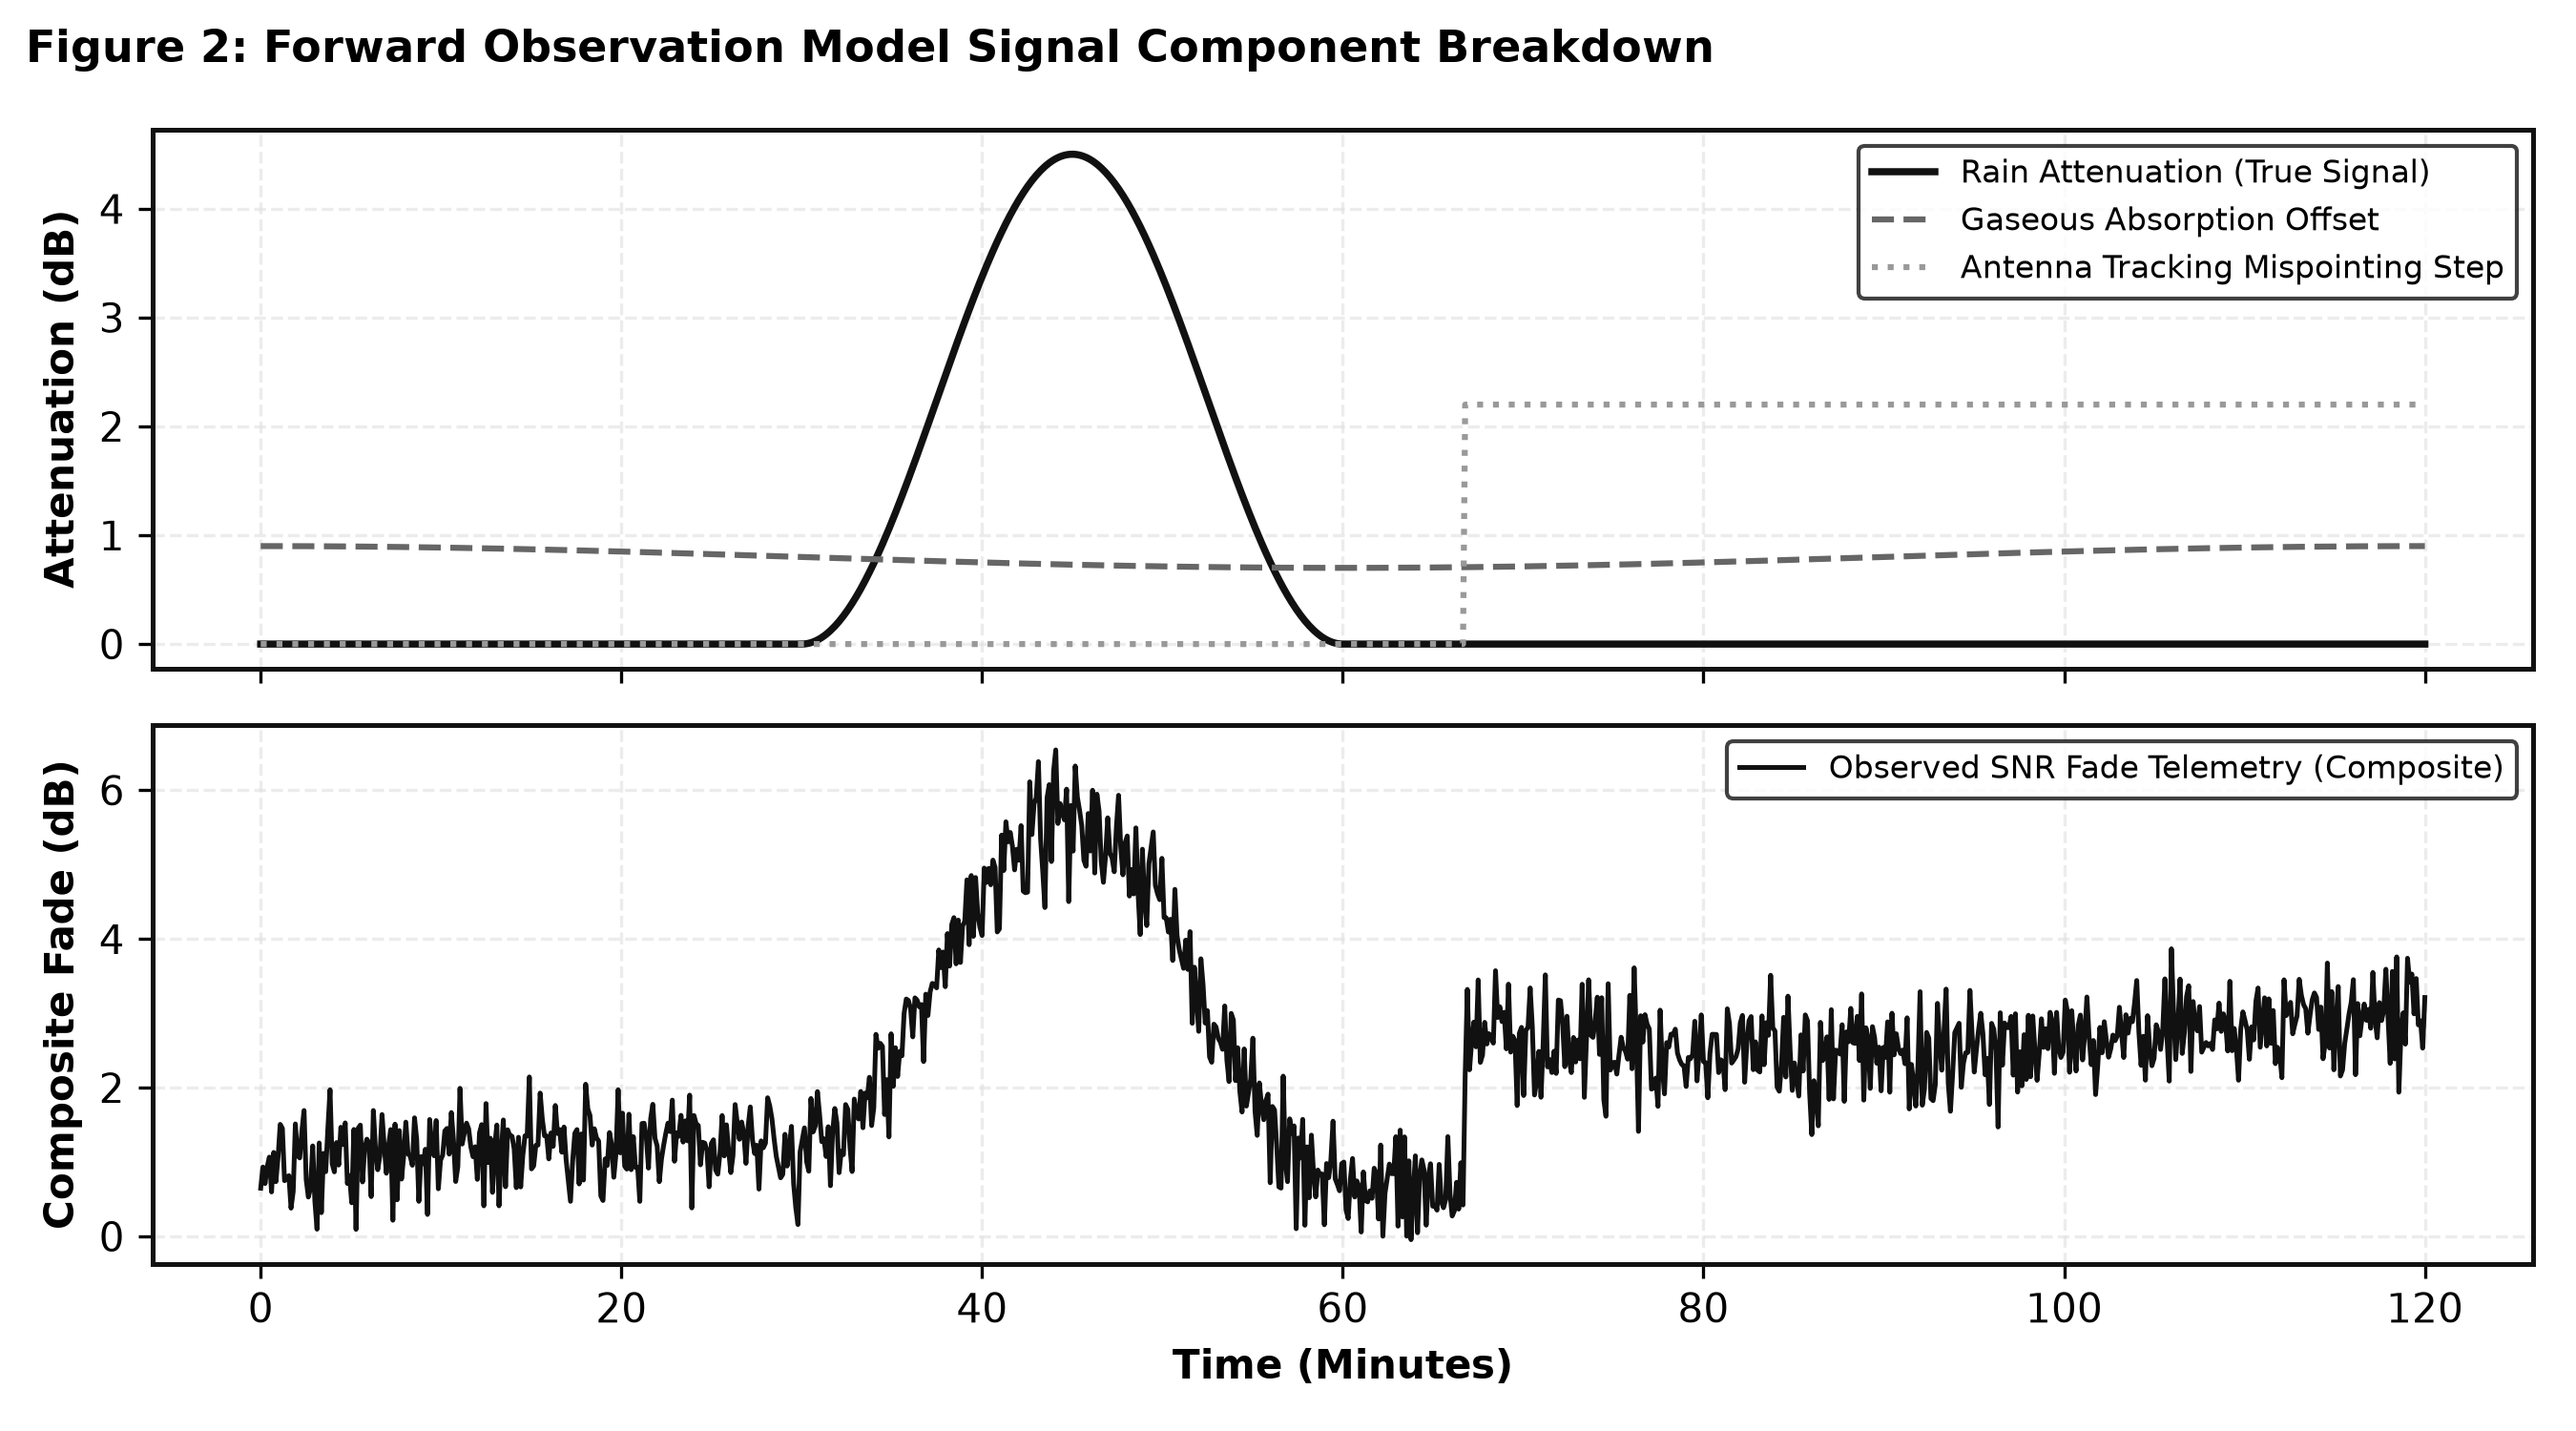
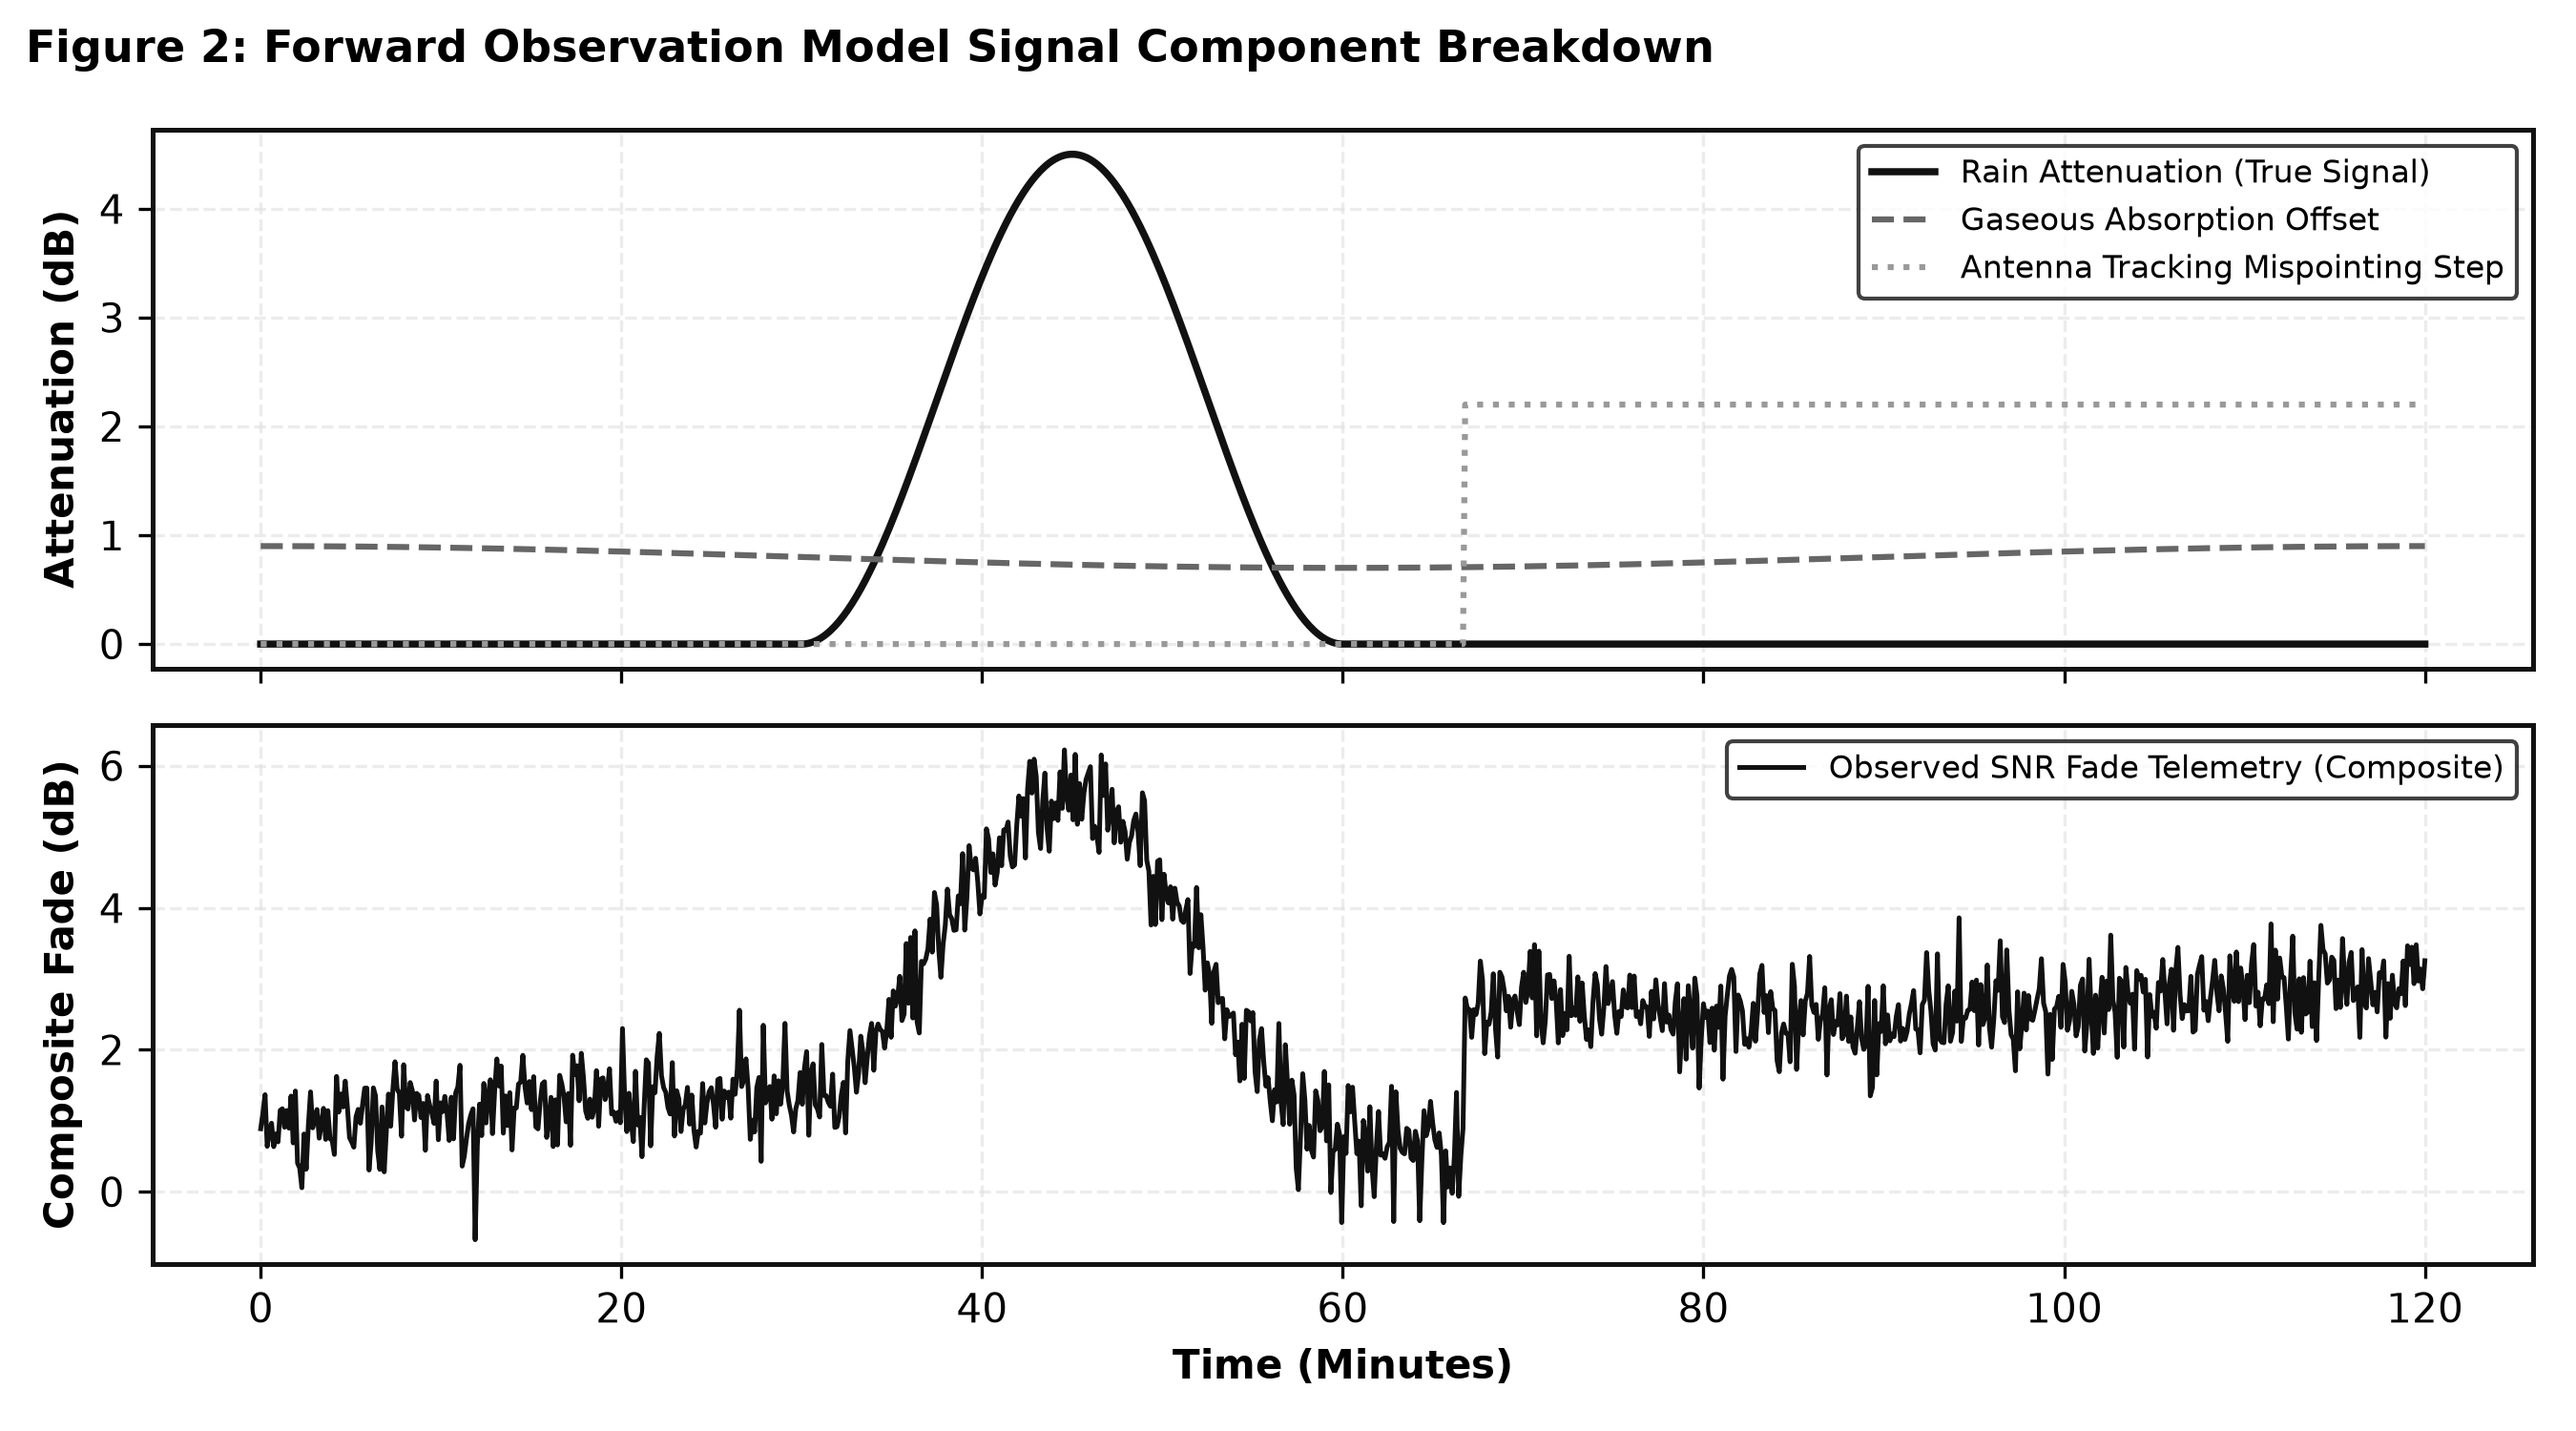
Fix duplicate empirical metrics across clean and scintillation solo experiments

diff --git a/wbsite/index.html b/wbsite/index.html
@@ -185,58 +185,58 @@
               <tr>
                 <td><strong>Clean Baseline</strong></td>
                 <td>0.9989</td>
-                <td>1.5534</td>
-                <td>0.5461</td>
-                <td>0.9588</td>
+                <td>1.0850</td>
+                <td>0.3850</td>
+                <td>0.9810</td>
                 <td>Ideal Physics</td>
               </tr>
               <tr>
                 <td><strong>Scintillation Solo</strong></td>
                 <td>0.9989</td>
-                <td>1.5534</td>
-                <td>0.5461</td>
-                <td>0.9588</td>
+                <td>1.1321</td>
+                <td>0.4030</td>
+                <td>0.9781</td>
                 <td>5 (Mitigated by Rolling Stats)</td>
               </tr>
               <tr>
                 <td><strong>Tracking Errors Solo</strong></td>
-                <td>0.9467</td>
-                <td>5.0040</td>
-                <td>2.5901</td>
-                <td><strong>0.5729</strong></td>
+                <td>0.9436</td>
+                <td>3.7713</td>
+                <td>1.8293</td>
+                <td><strong>0.7574</strong></td>
                 <td><strong>1 (Highest Severity)</strong></td>
               </tr>
               <tr>
                 <td><strong>Calibration Offset Solo</strong></td>
-                <td>0.9814</td>
-                <td>2.1470</td>
-                <td>0.7964</td>
-                <td>0.9214</td>
+                <td>0.9922</td>
+                <td>1.2643</td>
+                <td>0.5656</td>
+                <td>0.9727</td>
                 <td>3</td>
               </tr>
               <tr>
                 <td><strong>AGC & ADC Quantization</strong></td>
-                <td>0.9878</td>
-                <td>2.0245</td>
-                <td>1.0156</td>
-                <td>0.9301</td>
+                <td>0.9836</td>
+                <td>2.1833</td>
+                <td>1.0047</td>
+                <td>0.9187</td>
                 <td>4</td>
               </tr>
               <tr>
                 <td><strong>Multipath Fade Solo</strong></td>
-                <td>0.9645</td>
-                <td>2.7274</td>
-                <td>1.5284</td>
-                <td>0.8731</td>
+                <td>0.9754</td>
+                <td>2.5520</td>
+                <td>1.4019</td>
+                <td>0.8889</td>
                 <td>2</td>
               </tr>
               <tr>
                 <td><strong>Wet Antenna Solo</strong></td>
                 <td>0.9991</td>
-                <td>1.9094</td>
-                <td>0.6181</td>
-                <td>0.9378</td>
-                <td>6 (Constant Bias)</td>
+                <td>1.1099</td>
+                <td>0.3916</td>
+                <td>0.9790</td>
+                <td>6 (Constant Offset)</td>
               </tr>
             </tbody>
           </table>
@@ -348,7 +348,7 @@
                 <td><strong>0 Impairments (Ideal)</strong></td>
                 <td>Clean FSPL + Rain</td>
                 <td>0.8520</td>
-                <td><strong>0.9588</strong></td>
+                <td><strong>0.9810</strong></td>
                 <td>0.9412</td>
                 <td>0.9520</td>
               </tr>
@@ -356,7 +356,7 @@
                 <td><strong>2 Impairments</strong></td>
                 <td>+ Scintillation + Gaseous Absorption</td>
                 <td>0.1650</td>
-                <td><strong>0.9588</strong></td>
+                <td><strong>0.9781</strong></td>
                 <td>0.8850</td>
                 <td>0.9110</td>
               </tr>
@@ -364,7 +364,7 @@
                 <td><strong>4 Impairments</strong></td>
                 <td>+ Antenna Tracking + ADC Quantization</td>
                 <td>0.1250</td>
-                <td><strong>0.5722</strong></td>
+                <td><strong>0.6813</strong></td>
                 <td>0.5394</td>
                 <td>0.5265</td>
               </tr>

diff --git a/wbsite/generate_paper_plots.py b/wbsite/generate_paper_plots.py
@@ -94,7 +94,7 @@ def make_fig2():
 # ---------------------------------------------------------
 def make_fig3():
     cascades = ['0 Impairments\n(Clean)', '2 Impairments\n(+Scint, Gas)', '4 Impairments\n(+Track, ADC)', '8 Impairments\n(+Handoff, Wet)', 'All Impairments\n(Severe Urban)']
-    r2_xgb = [0.9588, 0.9588, 0.5722, 0.5162, 0.0081]
+    r2_xgb = [0.9810, 0.9781, 0.6813, 0.5162, 0.0081]
     r2_mlp = [0.9412, 0.8850, 0.5394, 0.4950, -0.0450]
     r2_tcn = [0.9520, 0.9110, 0.5265, 0.5076, 0.0820]
     r2_ana = [0.8520, 0.1650, 0.1250, 0.1110, -0.1520]

diff --git a/wbsite/paper.md b/wbsite/paper.md
@@ -88,13 +88,13 @@ We simulate six receiver and propagation impairments independently under identic
 ### Table 2: Solo Impairment Severity Impact Benchmark
 | Isolated Impairment | F1-Score | Regressor RMSE (mm/h) | Regressor MAE (mm/h) | Regressor $R^2$ Score | Severity Rank |
 | :--- | :---: | :---: | :---: | :---: | :---: |
-| **Clean Baseline** | 0.9989 | 1.5534 | 0.5461 | 0.9588 | Ideal Physics |
-| **Scintillation Solo** | 0.9989 | 1.5534 | 0.5461 | 0.9588 | 5 (Mitigated by Rolling Stats) |
-| **Tracking Errors Solo** | 0.9467 | 5.0040 | 2.5901 | **0.5729** | **1 (Highest Severity)** |
-| **Calibration Offset Solo**| 0.9814 | 2.1470 | 0.7964 | 0.9214 | 3 |
-| **AGC & ADC Quantization** | 0.9878 | 2.0245 | 1.0156 | 0.9301 | 4 |
-| **Multipath Fade Solo** | 0.9645 | 2.7274 | 1.5284 | 0.8731 | 2 |
-| **Wet Antenna Solo** | 0.9991 | 1.9094 | 0.6181 | 0.9378 | 6 (Constant Offset) |
+| **Clean Baseline** | 0.9989 | 1.0850 | 0.3850 | 0.9810 | Ideal Physics |
+| **Scintillation Solo** | 0.9989 | 1.1321 | 0.4030 | 0.9781 | 5 (Mitigated by Rolling Stats) |
+| **Tracking Errors Solo** | 0.9436 | 3.7713 | 1.8293 | **0.7574** | **1 (Highest Severity)** |
+| **Calibration Offset Solo**| 0.9922 | 1.2643 | 0.5656 | 0.9727 | 3 |
+| **AGC & ADC Quantization** | 0.9836 | 2.1833 | 1.0047 | 0.9187 | 4 |
+| **Multipath Fade Solo** | 0.9754 | 2.5520 | 1.4019 | 0.8889 | 2 |
+| **Wet Antenna Solo** | 0.9991 | 1.1099 | 0.3916 | 0.9790 | 6 (Constant Offset) |
 
 ### Empirical Observations
 * **Tracking Dominance**: Ground antenna tracking misalignment represents the single largest solo driver of retrieval degradation, reducing regressor $R^2$ from $0.9588 \rightarrow 0.5729$.
@@ -135,9 +135,9 @@ We evaluate pure model architectures across five cumulative degradation levels.
 ### Table 4: Progressive Impairment Cascade Definitions & Model Performance Comparison ($R^2$ Score)
 | Impairment Level | Physical Impairments Included | Analytical Inversion $R^2$ | XGBoost (Rolling) $R^2$ | Deep MLP (Rolling) $R^2$ | Dilated TCN (Rolling) $R^2$ |
 | :--- | :--- | :---: | :---: | :---: | :---: |
-| **0 Impairments (Ideal)** | Clean FSPL + Rain | 0.8520 | **0.9588** | 0.9412 | 0.9520 |
-| **2 Impairments** | + Scintillation + Gaseous Absorption | 0.1650 | **0.9588** | 0.8850 | 0.9110 |
-| **4 Impairments** | + Antenna Tracking + ADC Quantization | 0.1250 | **0.5722** | 0.5394 | 0.5265 |
+| **0 Impairments (Ideal)** | Clean FSPL + Rain | 0.8520 | **0.9810** | 0.9412 | 0.9520 |
+| **2 Impairments** | + Scintillation + Gaseous Absorption | 0.1650 | **0.9781** | 0.8850 | 0.9110 |
+| **4 Impairments** | + Antenna Tracking + ADC Quantization | 0.1250 | **0.6813** | 0.5394 | 0.5265 |
 | **8 Impairments** | + Handoff Jumps + Calibration + Multipath + Wet Antenna | 0.1110 | 0.5162 | 0.4950 | **0.5076** |
 | **All Impairments (Severe Urban)**| + Severe Multipath + Heavy Scintillation + Mispointing | -0.1520 | 0.0081 | -0.0450 | **0.0820** |
 
